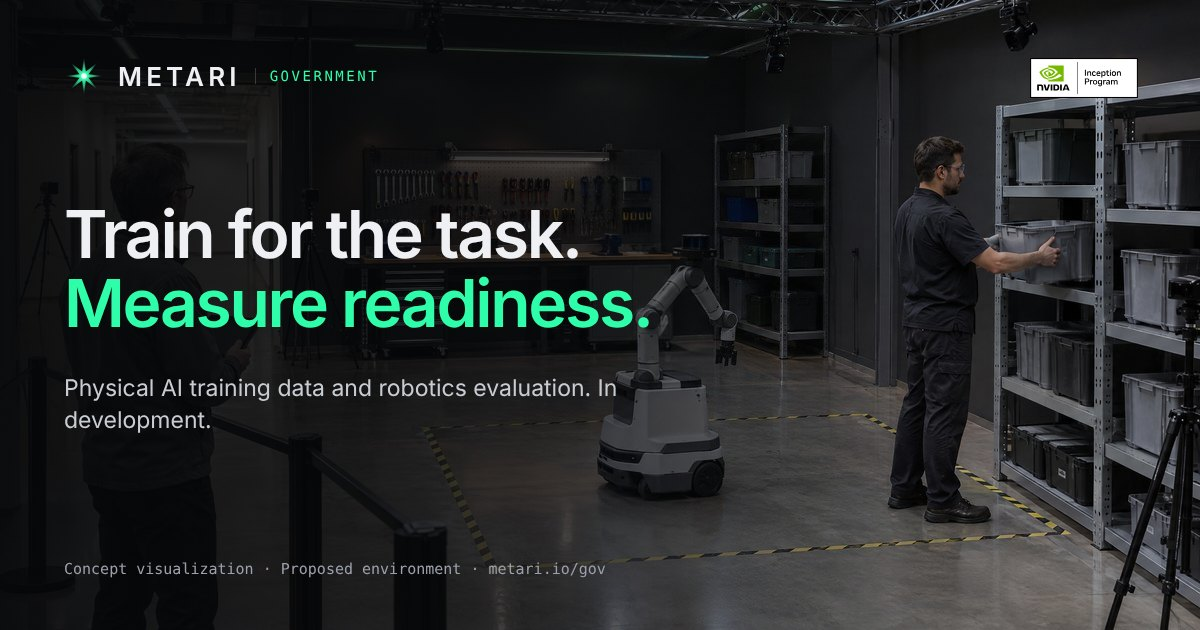
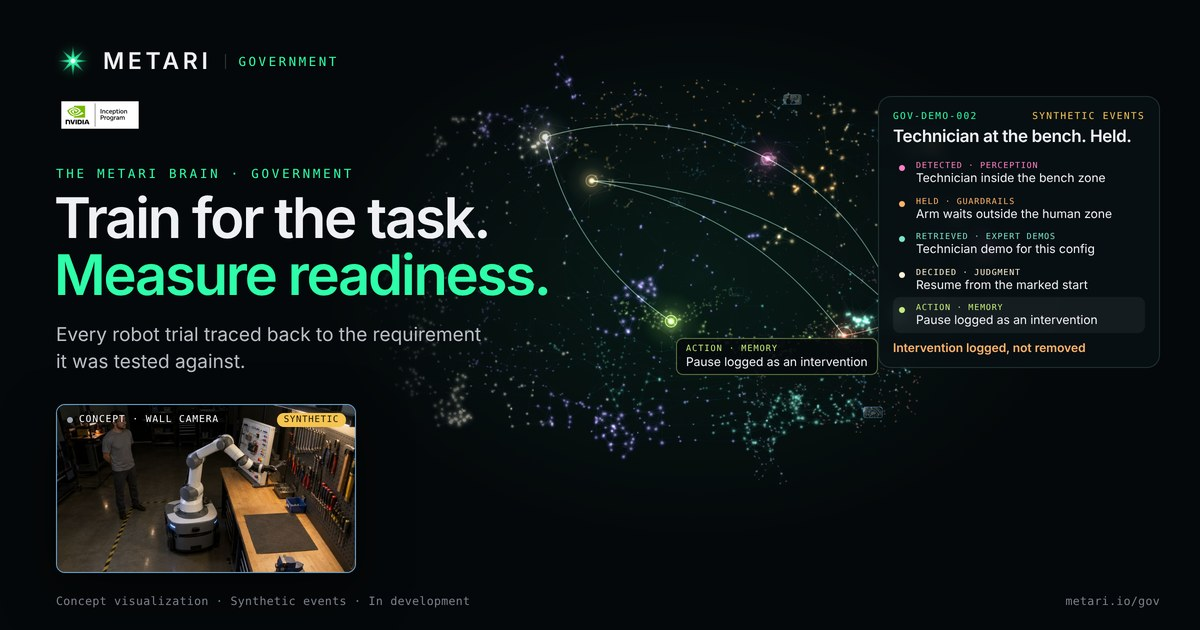
Use a Metari Brain scene card as the /gov link preview
Claude-Session: https://claude.ai/code/session_01XgDddCbVAGRJzWsHwiJVsr

diff --git a/gov/brief/og/og-card.html b/gov/brief/og/og-card.html
@@ -1,0 +1,53 @@
+<html><head><style>
+*{margin:0;padding:0;box-sizing:border-box}
+body{width:1200px;height:630px;overflow:hidden;background:#05080a;font-family:Inter,sans-serif;color:#eef0f3;position:relative}
+.mono{font-family:'DejaVu Sans Mono',monospace}
+.brain{position:absolute;left:330px;top:34px;width:700px;height:471px;-webkit-mask-image:linear-gradient(90deg,transparent 0%,#000 22%,#000 100%);mask-image:linear-gradient(90deg,transparent 0%,#000 22%,#000 100%);mix-blend-mode:screen}
+.lbl{position:absolute;left:676px;top:338px;background:rgba(5,10,12,.9);border:1px solid rgba(198,236,120,.45);border-radius:7px;padding:5px 9px}
+.lbl b{display:block;font-family:'DejaVu Sans Mono',monospace;font-weight:400;font-size:8.5px;letter-spacing:.12em;color:#c6ec78}
+.lbl span{font-size:12px}
+.glow{position:absolute;inset:0;background:radial-gradient(45% 60% at 58% 44%,rgba(46,254,169,.08),transparent 70%),linear-gradient(90deg,#05080a 0%,rgba(5,8,10,.8) 30%,rgba(5,8,10,0) 48%),linear-gradient(0deg,#05080a 0%,rgba(5,8,10,0) 18%)}
+.lock{position:absolute;left:56px;top:44px;display:flex;align-items:center;gap:13px}
+.lock svg{width:34px;height:34px;filter:drop-shadow(0 0 6px rgba(46,254,169,.7))}
+.lock .w{font-weight:600;font-size:23px;letter-spacing:.16em}
+.lock .s{font-size:12.5px;letter-spacing:.2em;color:#2efea9;border-left:1px solid rgba(255,255,255,.18);padding-left:13px}
+.badge{position:absolute;left:56px;top:96px;height:38px}
+.ey{position:absolute;left:56px;top:166px;font-size:12.5px;letter-spacing:.22em;color:#2efea9}
+h1{position:absolute;left:54px;top:190px;font-size:56px;line-height:1.02;letter-spacing:-.038em;font-weight:600;width:560px}
+h1 span{color:#2efea9}
+.sub{position:absolute;left:56px;top:322px;font-size:19px;color:#b9bec6;width:430px;line-height:1.4}
+.cam{position:absolute;left:56px;top:404px;width:300px;height:169px;border-radius:9px;overflow:hidden;border:1px solid rgba(132,202,255,.8);box-shadow:0 18px 50px rgba(0,0,0,.6)}
+.cam img{width:100%;height:100%;object-fit:cover}
+.cam .hud{position:absolute;left:10px;top:9px;font-size:9.5px;letter-spacing:.1em;color:#fff;text-shadow:0 1px 5px #000;display:flex;gap:6px;align-items:center}
+.cam .hud i{width:6px;height:6px;border-radius:50%;background:#9aa1ad}
+.cam .syn{position:absolute;right:9px;top:8px;font-size:9px;letter-spacing:.08em;background:#f5c451;color:#1b1503;border-radius:99px;padding:2px 7px}
+.tr{position:absolute;right:40px;top:96px;width:282px;background:rgba(8,16,19,.88);border:1px solid rgba(170,255,225,.14);border-radius:13px;padding:14px 14px 12px;backdrop-filter:blur(6px)}
+.tr .k{font-size:9.5px;letter-spacing:.14em;color:#2efea9;display:flex;justify-content:space-between}
+.tr .k b{color:#f5c451;font-weight:400}
+.tr h4{font-size:17px;font-weight:600;letter-spacing:-.02em;margin:5px 0 8px}
+.tr li{list-style:none;display:grid;grid-template-columns:8px 1fr;gap:9px;padding:5px 6px;border-radius:7px}
+.tr li i{width:6px;height:6px;border-radius:50%;margin-top:5px;background:var(--c)}
+.tr li b{display:block;font-family:'DejaVu Sans Mono',monospace;font-size:8.3px;letter-spacing:.1em;font-weight:400;color:var(--c)}
+.tr li span{font-size:12px;line-height:1.3}
+.tr li.cur{background:rgba(255,255,255,.06)}
+.tr .out{margin-top:7px;font-size:12px;font-weight:600;color:#ffb36b}
+.foot{position:absolute;left:56px;right:40px;bottom:22px;display:flex;justify-content:space-between;font-size:11.5px;color:#7b818b;letter-spacing:.03em}
+</style></head><body>
+<img class="brain" src="brain-crop.png">
+<div class="glow"></div>
+<div class="lbl"><b>ACTION · MEMORY</b><span>Pause logged as an intervention</span></div>
+<div class="lock"><svg viewBox="0 0 100 100"><defs><radialGradient id="g"><stop offset="0%" stop-color="#f2fff9"/><stop offset="16%" stop-color="#3affb2"/><stop offset="46%" stop-color="#2efea9" stop-opacity=".72"/><stop offset="100%" stop-color="#2efea9" stop-opacity="0"/></radialGradient></defs><path d="M 50.0 3.0 L 54.59 38.91 L 83.23 16.77 L 61.09 45.41 L 97.0 50.0 L 61.09 54.59 L 83.23 83.23 L 54.59 61.09 L 50.0 97.0 L 45.41 61.09 L 16.77 83.23 L 38.91 54.59 L 3.0 50.0 L 38.91 45.41 L 16.77 16.77 L 45.41 38.91 Z" fill="url(#g)"/><circle cx="50" cy="50" r="7" fill="#f2fff9"/></svg><span class="w">METARI</span><span class="s mono">GOVERNMENT</span></div>
+<img class="badge" src="../../../assets/badges/nvidia-inception-program-badge.svg">
+<div class="ey mono">THE METARI BRAIN · GOVERNMENT</div>
+<h1>Train for the task. <span>Measure readiness.</span></h1>
+<p class="sub">Every robot trial traced back to the requirement it was tested against.</p>
+<div class="cam"><img src="../../../assets/gov/brain/ph_tool.jpg"><div class="hud mono"><i></i>CONCEPT · WALL CAMERA</div><div class="syn mono">SYNTHETIC</div></div>
+<div class="tr"><div class="k mono">GOV-DEMO-002 <b>SYNTHETIC EVENTS</b></div><h4>Technician at the bench. Held.</h4><ol>
+<li style="--c:#ff80c4"><i></i><div><b>DETECTED · PERCEPTION</b><span>Technician inside the bench zone</span></div></li>
+<li style="--c:#ffb36b"><i></i><div><b>HELD · GUARDRAILS</b><span>Arm waits outside the human zone</span></div></li>
+<li style="--c:#7ce4cc"><i></i><div><b>RETRIEVED · EXPERT DEMOS</b><span>Technician demo for this config</span></div></li>
+<li style="--c:#fff1d6"><i></i><div><b>DECIDED · JUDGMENT</b><span>Resume from the marked start</span></div></li>
+<li class="cur" style="--c:#c6ec78"><i></i><div><b>ACTION · MEMORY</b><span>Pause logged as an intervention</span></div></li>
+</ol><div class="out">Intervention logged, not removed</div></div>
+<div class="foot mono"><span>Concept visualization · Synthetic events · In development</span><span>metari.io/gov</span></div>
+</body></html>

diff --git a/gov/index.html b/gov/index.html
@@ -8,13 +8,13 @@
 <link rel="canonical" href="https://metari.io/gov" />
 <meta property="og:title" content="Metari Government: train for the task, measure readiness" />
 <meta property="og:description" content="In development: proposed environments for expert-led training data and repeatable robotics evaluation. Campus 01 is planned, not operating. Examples are illustrative." />
-<meta property="og:image" content="https://metari.io/assets/gov/og-gov.jpg" />
+<meta property="og:image" content="https://metari.io/assets/gov/og-gov.jpg?v=2" />
 <meta property="og:image:width" content="1200" />
 <meta property="og:image:height" content="630" />
 <meta property="og:url" content="https://metari.io/gov" />
 <meta property="og:type" content="website" />
 <meta name="twitter:card" content="summary_large_image" />
-<meta name="twitter:image" content="https://metari.io/assets/gov/og-gov.jpg" />
+<meta name="twitter:image" content="https://metari.io/assets/gov/og-gov.jpg?v=2" />
 <link rel="icon" type="image/svg+xml" href="/assets/favicon.svg" />
 <link rel="preconnect" href="https://fonts.googleapis.com" />
 <link rel="preconnect" href="https://fonts.gstatic.com" crossorigin />

diff --git a/gov/brief/og/capture_brain.py b/gov/brief/og/capture_brain.py
@@ -1,0 +1,18 @@
+import asyncio
+from playwright.async_api import async_playwright
+INIT = """
+(()=>{const P=CanvasRenderingContext2D.prototype;const rr=P.roundRect;P.roundRect=function(...a){if(String(this.fillStyle).replace(/ /g,'')==='rgba(5,10,12,0.86)')return;return rr.apply(this,a)};
+const ft=P.fillText;P.fillText=function(t,...a){const f=this.font;if(/^500 13px/.test(f)||/^600 10px/.test(f))return;return ft.call(this,t,...a)}})();
+"""
+async def m():
+  async with async_playwright() as pw:
+    b=await pw.chromium.launch()
+    p=await b.new_page(viewport={'width':1500,'height':900},device_scale_factor=2,reduced_motion='reduce')
+    await p.add_init_script(INIT)
+    await p.goto('http://localhost:8765/gov/',wait_until='networkidle')
+    await p.add_style_tag(content="#nav,#brain .title,#brain .closing,#brain .prog,#brain .vig{display:none!important} #brain .card,#brain .mb-trace{visibility:hidden!important}")
+    top=await p.evaluate("document.getElementById('brain').offsetTop"); h=await p.evaluate("document.getElementById('brain').offsetHeight-innerHeight")
+    await p.evaluate(f"window.scrollTo(0,{top}+{h}*.643)"); await p.wait_for_timeout(1800)
+    await p.locator('#mbcv').screenshot(path='brain-clean.png')
+    await b.close()
+asyncio.run(m())

diff --git a/gov/brief/og/README.md b/gov/brief/og/README.md
@@ -1,0 +1,7 @@
+# /gov link-preview card (assets/gov/og-gov.jpg)
+
+1. Serve the repo root (`python3 -m RangeHTTPServer 8765`) and run `python3 capture_brain.py` from this folder. It captures the /gov Brain at the GOV-DEMO-002 scene without page chrome or canvas labels (writes brain-clean.png).
+2. Crop to the brain and drop the background to black: crop (420,140,2620,1620) from brain-clean.png, map channel values <=14 to 0 and scale the rest by 1.35, save as brain-crop.png.
+3. Screenshot `og-card.html` at 1200x630, device scale 2, then downscale to 1200x630 and save as `assets/gov/og-gov.jpg`.
+
+Scene text is synthetic and labelled so on the card.
